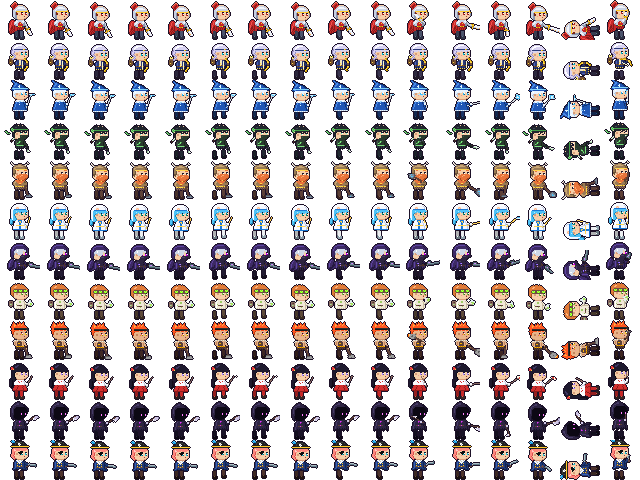
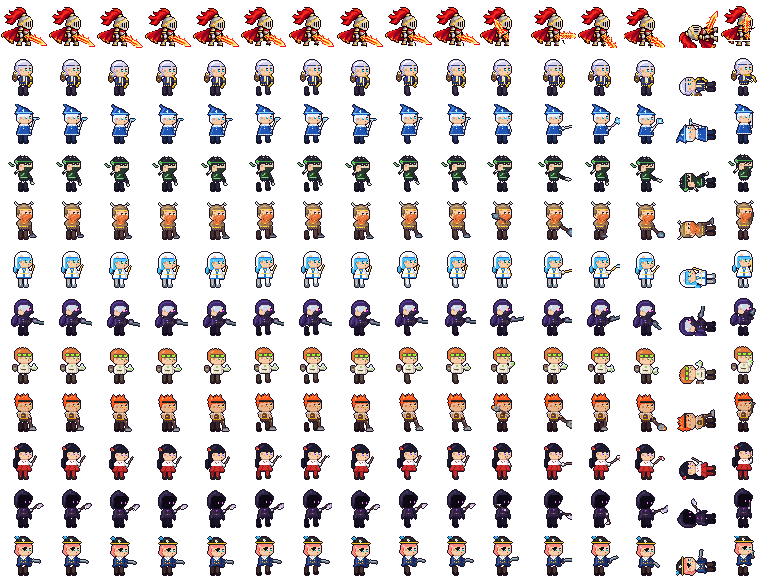
카이엔: 직접 만든 도트 그림으로 교체 (도트 변환 도구, 무기·다리 동작), 영웅 칸 48px
Claude-Session: https://claude.ai/code/session_01Fxb29UthuHm5NupsxcALjM

diff --git a/index.html b/index.html
@@ -8,22 +8,22 @@
   <link rel="preconnect" href="https://fonts.googleapis.com">
   <link rel="preconnect" href="https://fonts.gstatic.com" crossorigin>
   <link href="https://fonts.googleapis.com/css2?family=Black+Han+Sans&family=Noto+Sans+KR:wght@400;700;900&display=swap" rel="stylesheet">
-  <link rel="stylesheet" href="style.css?v=202610190907">
-  <script>window.__ASSET_V = '202610190907';</script>
+  <link rel="stylesheet" href="style.css?v=202610191012">
+  <script>window.__ASSET_V = '202610191012';</script>
   <script type="importmap">
   {
     "imports": {
-      "./src/data.js": "./src/data.js?v=202610190907",
-      "./src/maps.js": "./src/maps.js?v=202610190907",
-      "./src/sim.js": "./src/sim.js?v=202610190907",
-      "./src/fx.js": "./src/fx.js?v=202610190907",
-      "./src/render.js": "./src/render.js?v=202610190907",
-      "./src/audio.js": "./src/audio.js?v=202610190907",
-      "./src/net.js": "./src/net.js?v=202610190907",
-      "./src/save.js": "./src/save.js?v=202610190907",
-      "./src/ui.js": "./src/ui.js?v=202610190907",
-      "./src/cloud.js": "./src/cloud.js?v=202610190907",
-      "./src/config.js": "./src/config.js?v=202610190907"
+      "./src/data.js": "./src/data.js?v=202610191012",
+      "./src/maps.js": "./src/maps.js?v=202610191012",
+      "./src/sim.js": "./src/sim.js?v=202610191012",
+      "./src/fx.js": "./src/fx.js?v=202610191012",
+      "./src/render.js": "./src/render.js?v=202610191012",
+      "./src/audio.js": "./src/audio.js?v=202610191012",
+      "./src/net.js": "./src/net.js?v=202610191012",
+      "./src/save.js": "./src/save.js?v=202610191012",
+      "./src/ui.js": "./src/ui.js?v=202610191012",
+      "./src/cloud.js": "./src/cloud.js?v=202610191012",
+      "./src/config.js": "./src/config.js?v=202610191012"
     }
   }
   </script>
@@ -43,6 +43,6 @@
     <div id="aug" hidden></div>
     <div id="menu" class="overlay"></div>
   </div>
-  <script type="module" src="./src/main.js?v=202610190907"></script>
+  <script type="module" src="./src/main.js?v=202610191012"></script>
 </body>
 </html>

diff --git a/src/data.js b/src/data.js
@@ -219,10 +219,10 @@ export const CHARS = {
   },
 };
 export const CHAR_KEYS = Object.keys(CHARS);
-// 영웅 그림: assets/heroes.png 한 칸 40x40, 한 줄 = 한 캐릭터
+// 영웅 그림: assets/heroes.png 한 칸 48x48 (발끝 46행), 한 줄 = 한 캐릭터
 //  0-3 서기 · 4-9 걷기 · 10 준비 · 11 공격 · 12 마무리 · 13 맞음 · 14 쓰러짐 · 15 승리
 // assets/portraits.png 한 칸 64x64 (캐릭터 순서대로 가로)
-export const HERO_SPRITE = { size: 40, draw: 60, frames: 16, portrait: 64 };
+export const HERO_SPRITE = { size: 48, draw: 72, frames: 16, portrait: 64 };
 
 // ---------- 적 (assets/enemies.png 24x24: 종류마다 [걷기1, 걷기2, 쓰러짐]) ----------
 export const ENEMY_SHEET = ['slime', 'archer', 'brute', 'bat', 'spider', 'bomber', 'caster', 'shield', 'totem'];

diff --git a/src/render.js b/src/render.js
@@ -294,7 +294,7 @@ export function createRenderer(canvas) {
     ctx.translate(x, y - lift);
     if (flip) ctx.scale(-1, 1);
     if (scale !== 1) ctx.scale(scale, scale);
-    if (ready(sheet)) ctx.drawImage(white ? whiteOf(sheet) : sheet, frame * HS, C.row * HS, HS, HS, -HD / 2, -HD * 0.75, HD, HD);
+    if (ready(sheet)) ctx.drawImage(white ? whiteOf(sheet) : sheet, frame * HS, C.row * HS, HS, HS, -HD / 2, -HD * 0.792, HD, HD);
     else { ctx.fillStyle = C.color; ctx.fillRect(-10, -26, 20, 30); }
     ctx.restore();
   }

diff --git a/tools/make_heroes.py b/tools/make_heroes.py
@@ -289,14 +289,94 @@ def portrait(key):
     return out
 
 
+# ============================================================
+#  직접 그려 온 도트 (tools/art/*.png) → 동작 만들기
+#  무기 부분만 떼어서 손잡이를 중심으로 돌리고, 다리는 번갈아 움직임
+# ============================================================
+FW = FH = 48  # 최종 칸 크기 (격자로 그린 영웅은 40 칸을 가운데에 놓음)
+
+
+def sprite_frames(key):
+    spec = HEROES[key]
+    S = spec['sprite']
+    img = Image.open(ROOT / S['file']).convert('RGBA')
+    w, h = img.size
+    px = img.load()
+    sx0, sy0 = S['weapon_from']
+    pivot = S['pivot']
+    body = Image.new('RGBA', (w, h), (0, 0, 0, 0)); bp = body.load()
+    wep = Image.new('RGBA', (w, h), (0, 0, 0, 0)); wp = wep.load()
+    for y in range(h):
+        for x in range(w):
+            if px[x, y][3] == 0:
+                continue
+            if x >= sx0 and y >= sy0:
+                wp[x, y] = px[x, y]
+            else:
+                bp[x, y] = px[x, y]
+    leg_y, leg_split = S['legs']
+    ox, oy = S.get('place', ((FW - w) // 2, FH - 2 - h))
+    A = dict(rest=0, windup=-150, strike=-25, follow=25, hurt=12, win=-115)
+
+    def compose(bob=0, lean=0, la=0, lb=0, wa=0, hurt=False):
+        f = Image.new('RGBA', (FW, FH), (0, 0, 0, 0))
+        # 몸: 다리 줄 위만 흔들림
+        top = body.crop((0, 0, w, leg_y))
+        f.alpha_composite(top, (ox + lean, oy + bob))
+        for side, ph in ((0, lb), (1, la)):
+            x0, x1 = (0, leg_split) if side == 0 else (leg_split, w)
+            leg = body.crop((x0, leg_y, x1, h))
+            lift = 1 if ph > 0 else 0
+            f.alpha_composite(leg, (ox + x0 + ph + lean // 2, oy + leg_y - lift))
+        r, (cx, cy) = rotated(wep, pivot, wa)
+        f.alpha_composite(r, (ox + lean - cx + pivot[0], oy + bob - cy + pivot[1]))
+        return f
+
+    frames = []
+    for i in range(16):
+        if i < 4:
+            frames.append(compose(bob=[0, 0, 1, 1][i], wa=[0, 2, 3, 1][i]))
+        elif i < 10:
+            k = (i - 4) / 6 * math.tau
+            la = round(math.sin(k) * 1.6)
+            frames.append(compose(bob=1 if (i - 4) % 3 == 0 else 0, lean=0, la=la, lb=-la, wa=round(math.sin(k) * 5)))
+        elif i == 10:
+            frames.append(compose(lean=-1, wa=A['windup']))
+        elif i == 11:
+            frames.append(compose(lean=2, wa=A['strike']))
+        elif i == 12:
+            frames.append(compose(lean=1, wa=A['follow']))
+        elif i == 13:
+            frames.append(compose(lean=-2, bob=1, wa=A['hurt']))
+        elif i == 14:
+            idle = compose()
+            out = Image.new('RGBA', (FW, FH), (0, 0, 0, 0))
+            out.alpha_composite(idle.rotate(90, resample=Image.NEAREST), (0, 10))
+            frames.append(out)
+        else:
+            frames.append(compose(bob=-1, wa=A['win']))
+    # 얼굴 그림: 머리 부분을 3배로
+    hx0, hy0, hs = S['face']
+    crop = img.crop((hx0, hy0, hx0 + hs, hy0 + hs)).resize((hs * 3, hs * 3), Image.NEAREST)
+    port = Image.new('RGBA', (64, 64), (0, 0, 0, 0))
+    port.alpha_composite(crop, ((64 - hs * 3) // 2, 64 - hs * 3))
+    return frames, port
+
+
 def main():
-    sheet = Image.new('RGBA', (W * FRAMES, H * len(ORDER)), (0, 0, 0, 0))
+    sheet = Image.new('RGBA', (FW * FRAMES, FH * len(ORDER)), (0, 0, 0, 0))
     ports = Image.new('RGBA', (64 * len(ORDER), 64), (0, 0, 0, 0))
     for r, key in enumerate(ORDER):
         if key not in HEROES:
             continue
+        if 'sprite' in HEROES[key]:
+            frames, port = sprite_frames(key)
+            for i, fr in enumerate(frames):
+                sheet.alpha_composite(fr, (i * FW, r * FH))
+            ports.alpha_composite(port, (r * 64, 0))
+            continue
         for i in range(FRAMES):
-            sheet.alpha_composite(dead_frame(key) if i == 14 else draw_frame(key, i), (i * W, r * H))
+            sheet.alpha_composite(dead_frame(key) if i == 14 else draw_frame(key, i), (i * FW + (FW - W) // 2, r * FH + (FH - H)))
         ports.alpha_composite(portrait(key), (r * 64, 0))
     sheet.save(ROOT / 'assets' / 'heroes.png')
     ports.save(ROOT / 'assets' / 'portraits.png')

diff --git a/tools/import_sprite.py b/tools/import_sprite.py
@@ -1,0 +1,95 @@
+"""AI로 만든 '도트풍' 그림(큰 해상도, 분홍 배경) → 진짜 1픽셀 도트로 바꾸기
+
+  python3 tools/import_sprite.py 원본.png 결과.png [픽셀크기]
+
+1) 픽셀 크기(원본에서 도트 한 칸이 몇 px인지)를 가장자리 간격으로 추정
+2) 칸마다 가운데 색을 골라 1픽셀로
+3) 분홍(#FF00FF 근처) 배경을 투명으로, 떠다니는 작은 조각(불씨 등)은 지우고 가장 큰 덩어리만 남김
+"""
+import sys
+from collections import Counter
+import numpy as np
+from PIL import Image
+
+
+def is_bg(c):
+    r, g, b = c[:3]
+    return r > 170 and b > 170 and g < 110
+
+
+def estimate_pixel(im, mask, x0):
+    """가장자리 위치들이 x0 + k·p 격자에 가장 잘 맞는 p를 찾음"""
+    diff = (np.abs(np.diff(im, axis=1)).sum(2) > 60) & ~mask[:, 1:]
+    xs = np.where(diff[::3])[1].astype(float) + 1
+    ps = np.arange(8.0, 40.0, 0.02)
+    scores = []
+    for p in ps:
+        d = np.abs(((xs - x0) / p) - np.round((xs - x0) / p)) * p
+        scores.append(np.mean(d < 1.6))
+    scores = np.array(scores)
+    # 절반 크기 격자도 잘 맞으므로, 거의 최고 점수인 것 중 가장 큰 칸
+    ok = ps[scores >= scores.max() * 0.92]
+    return float(ok.max())
+
+
+def main(src, out, p=None):
+    im = np.array(Image.open(src).convert('RGB')).astype(int)
+    mask = np.array([[is_bg(px) for px in row] for row in im[::1]]) if im.shape[0] < 1 else (
+        (im[:, :, 0] > 170) & (im[:, :, 2] > 170) & (im[:, :, 1] < 110))
+    ys, xs = np.where(~mask)
+    x0, y0 = xs.min(), ys.min()
+    p = float(p) if p else estimate_pixel(im, mask, x0)
+    H, W, _ = im.shape
+    nx, ny = int((W - x0) / p) + 1, int((H - y0) / p) + 1
+    res = np.zeros((ny, nx, 4), np.uint8)
+    for j in range(ny):
+        for i in range(nx):
+            a0, a1 = int(x0 + i * p + p * 0.3), int(x0 + i * p + p * 0.7)
+            b0, b1 = int(y0 + j * p + p * 0.3), int(y0 + j * p + p * 0.7)
+            blk = im[b0:b1, a0:a1].reshape(-1, 3)
+            if not len(blk):
+                continue
+            c = np.median(blk, 0).astype(int)
+            res[j, i, :3] = c
+            res[j, i, 3] = 0 if is_bg(c) else 255
+    # 분홍이 섞인 가장자리 색 정리
+    for j in range(ny):
+        for i in range(nx):
+            r, g, b, a = res[j, i]
+            if a and r > 110 and b > 110 and g < 80:
+                edge = any(not (0 <= j + dj < ny and 0 <= i + di < nx) or res[j + dj, i + di, 3] == 0 for dj, di in ((1, 0), (-1, 0), (0, 1), (0, -1)))
+                if edge:
+                    res[j, i, 3] = 0
+                else:
+                    res[j, i, :3] = (29, 17, 40)
+    # 가장 큰 덩어리만
+    alive = res[:, :, 3] > 0
+    lab = np.zeros(alive.shape, int)
+    sizes = {}
+    cur = 0
+    for y in range(ny):
+        for x in range(nx):
+            if alive[y, x] and not lab[y, x]:
+                cur += 1
+                st = [(y, x)]
+                lab[y, x] = cur
+                n = 0
+                while st:
+                    cy, cx = st.pop()
+                    n += 1
+                    for dy, dx in ((1, 0), (-1, 0), (0, 1), (0, -1)):
+                        yy, xx = cy + dy, cx + dx
+                        if 0 <= yy < ny and 0 <= xx < nx and alive[yy, xx] and not lab[yy, xx]:
+                            lab[yy, xx] = cur
+                            st.append((yy, xx))
+                sizes[cur] = n
+    big = max(sizes, key=sizes.get)
+    res[lab != big] = 0
+    img = Image.fromarray(res, 'RGBA')
+    img = img.crop(img.getbbox())
+    img.save(out)
+    print(f'픽셀 크기 {p:.2f}px → {img.size[0]}x{img.size[1]}')
+
+
+if __name__ == '__main__':
+    main(*sys.argv[1:])

diff --git a/tools/hero_art.py b/tools/hero_art.py
@@ -105,6 +105,8 @@ HEROES['knight'] = dict(
         '...g................',
     ], pivot=(1, 2)),
     kind='melee', legs=('p', 'o', 'O'), arm='a', glove='a',
+    # 직접 그려 온 도트 (tools/art/src/knight.png → tools/import_sprite.py → tools/art/knight.png)
+    sprite=dict(file='tools/art/knight.png', weapon_from=(29, 26), pivot=(26, 29), legs=(34, 22), face=(11, 2, 22)),
 )
 
 # =====================================================================
